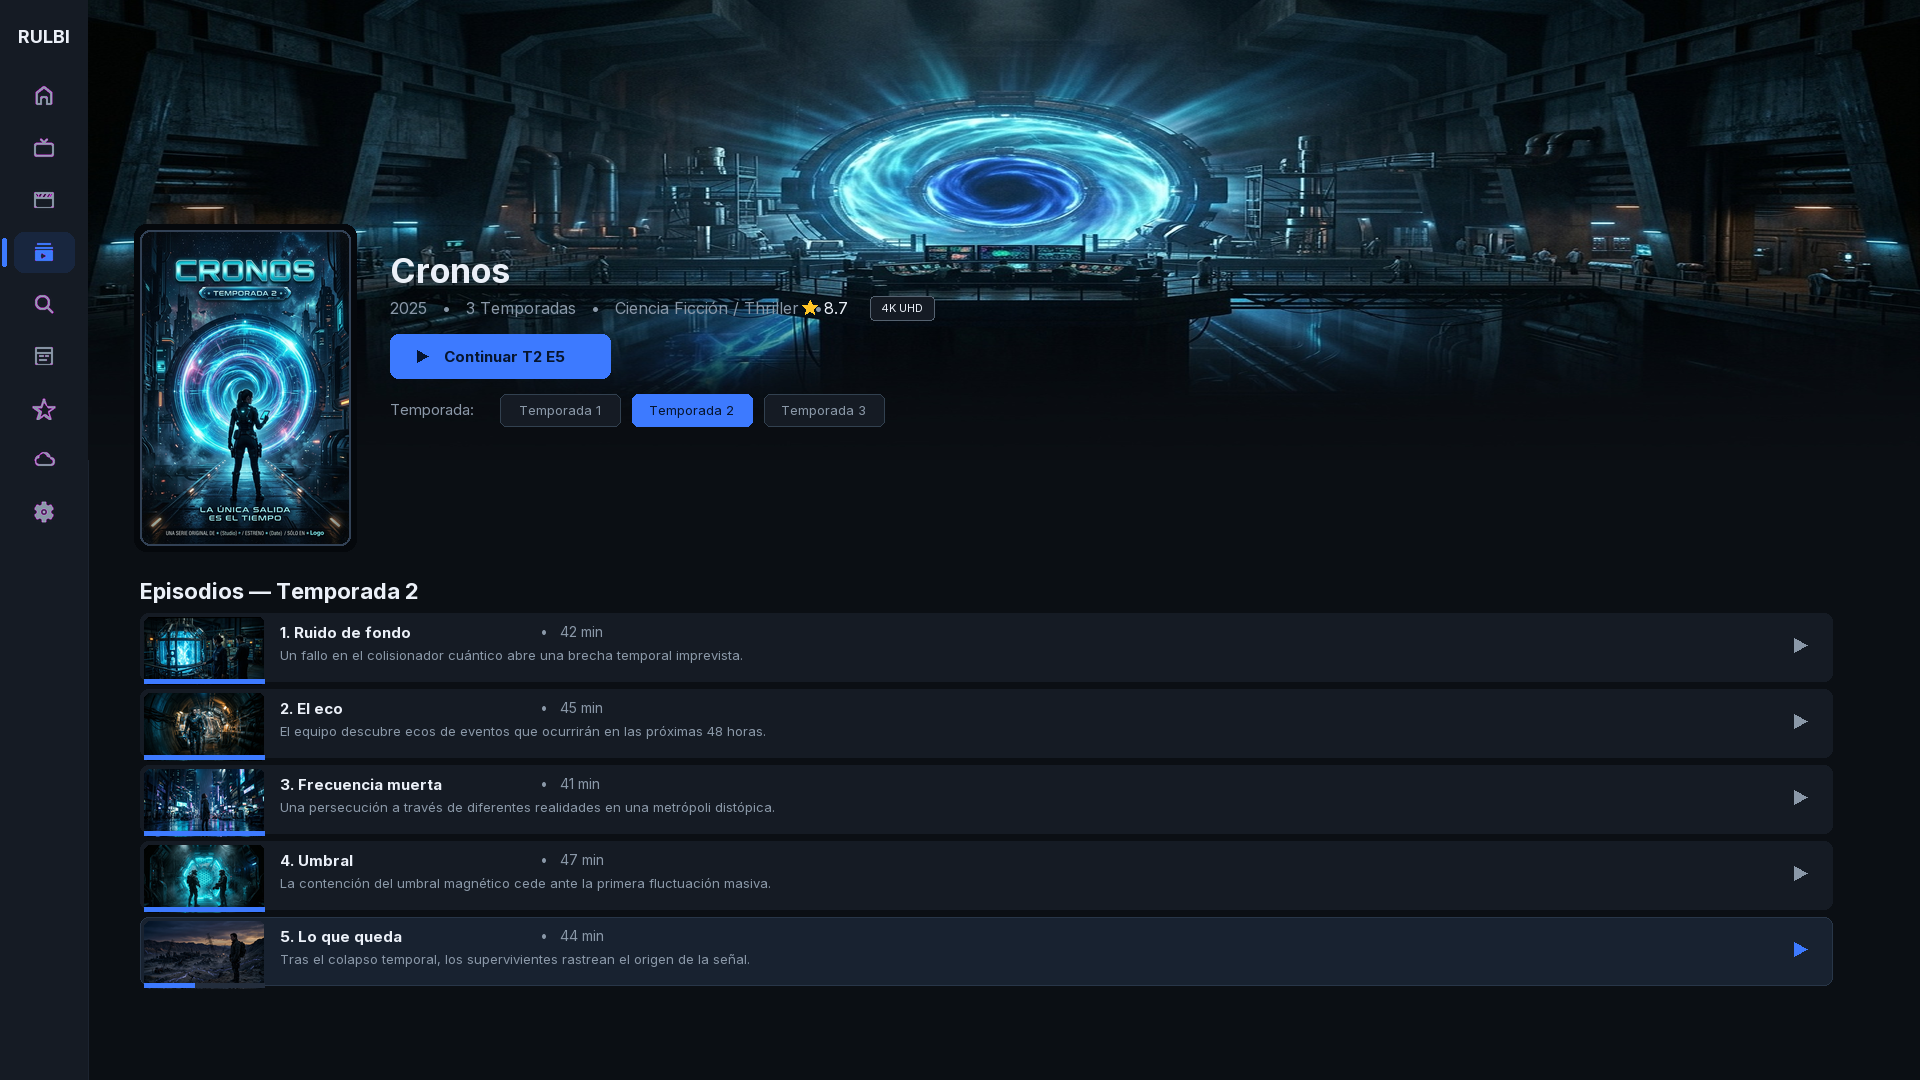
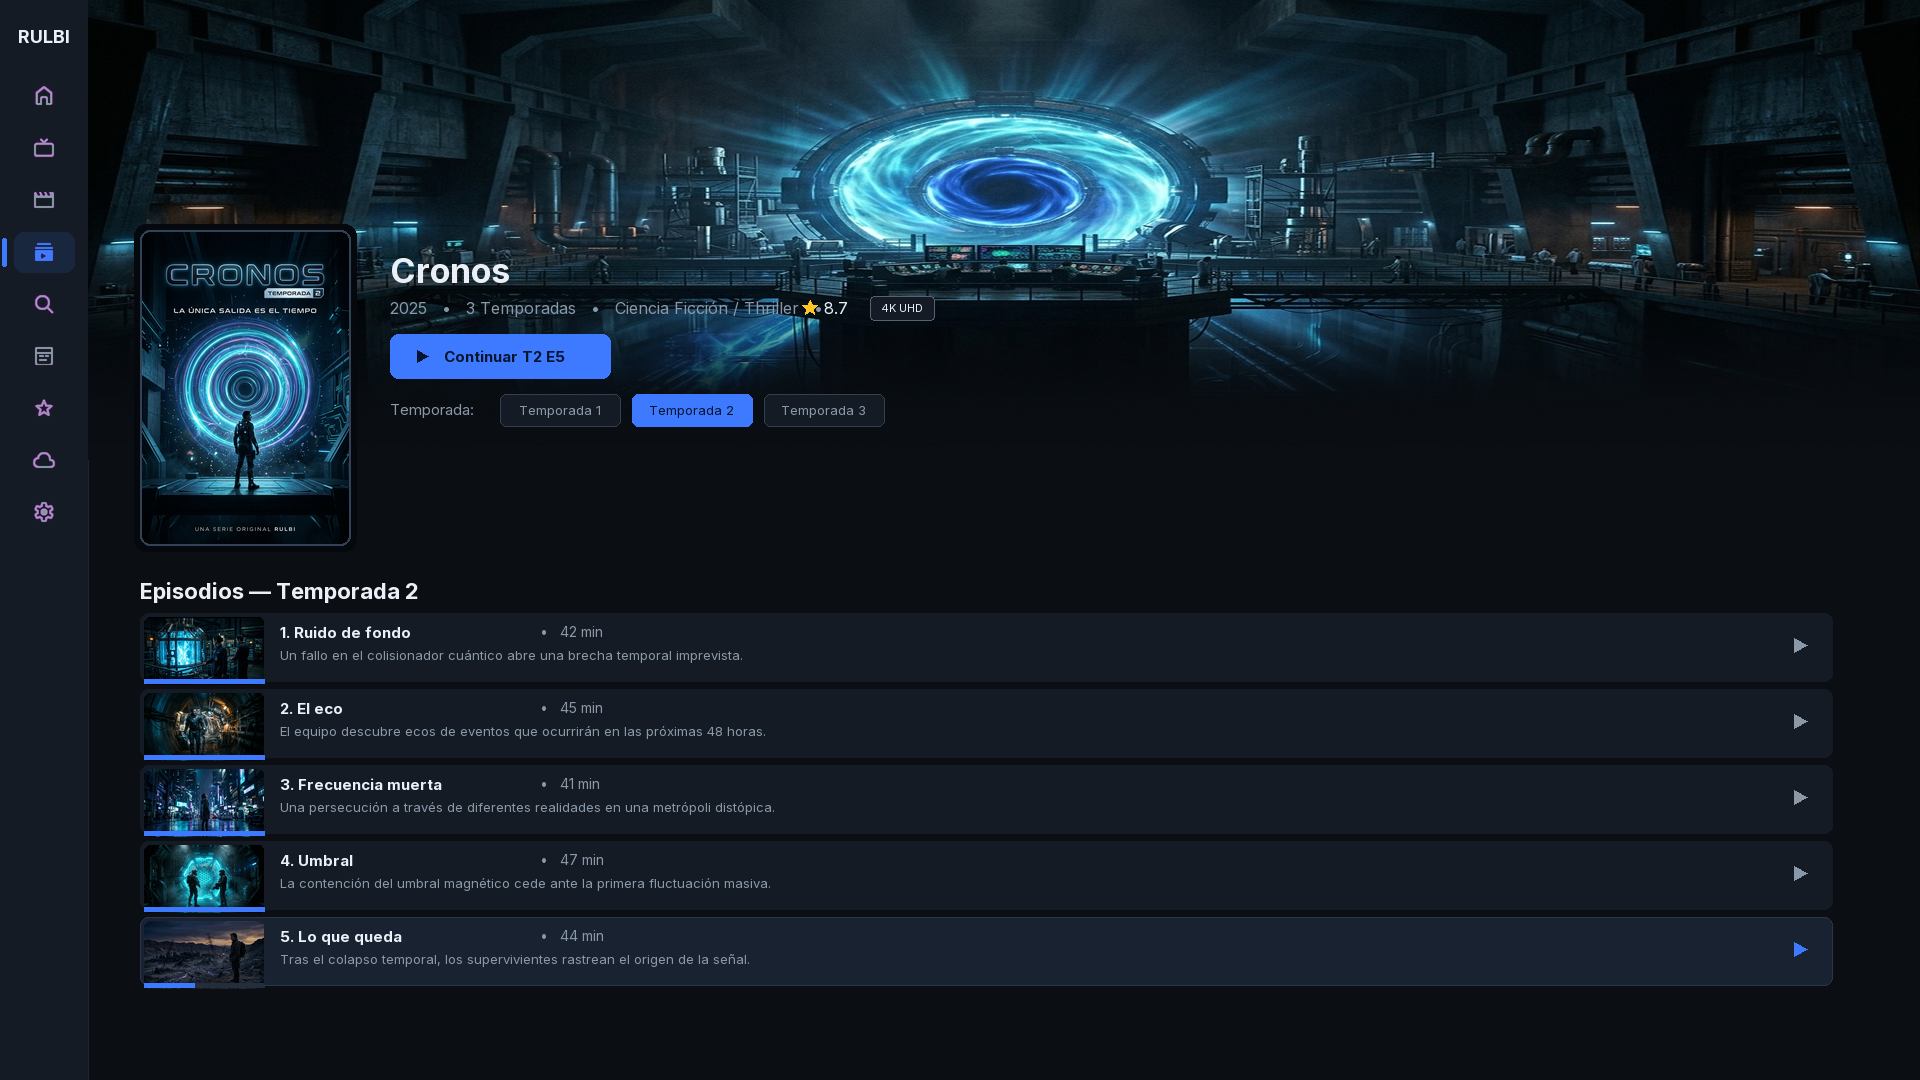
fix(design): completa el set de iconos del rail y el crédito del póster de Cronos
Comitea el trabajo de la vía 2 (encargado a Antigravity, verificado por rasterizado
calibrado en sesiones previas pero nunca comiteado) más un fix propio:

- posters/cronos_s02.jpg: créditos limpios ("UNA SERIE ORIGINAL RULBI"), sin los
  marcadores de plantilla "(Studio)/(Date)/Logo" quemados en la imagen.
- icon_movies, icon_favorites, icon_sources (+ sus activos): ahora son los glifos
  reales de Material Symbols Rounded (variantes outline/fill1), no paths dibujados
  a mano. Consistentes entre estado activo e inactivo.
- icon_settings (inactivo): mismo fix, hecho en esta sesión — el activo ya tenía
  el glifo real de Material Symbols pero el inactivo se había quedado con el
  engranaje viejo dibujado a mano, dos familias de icono distintas en el mismo
  par. Sincronizado también en tool/generate_rail_icons.py (antes solo se había
  editado el .svg de salida, no el string hardcodeado del generador — quedaba
  el riesgo de que una regeneración futura revirtiera el fix).

Los 4 mockups se regeneraron para reflejar el icono de ajustes corregido.

Changed region(s): [[0.0625, 0.2139, 0.1875, 0.5194], [0.0, 0.4583, 0.0312, 0.4889], [0.0, 0.3667, 0.0312, 0.3972]]

diff --git a/tool/generate_rail_icons.py b/tool/generate_rail_icons.py
@@ -58,11 +58,15 @@ live_tv_active = """<svg xmlns="http://www.w3.org/2000/svg" viewBox="0 0 24 24" 
 
 # 3. Movies
 movies_inactive = """<svg xmlns="http://www.w3.org/2000/svg" viewBox="0 0 24 24" width="24" height="24">
-  <path fill="#8A98A8" fill-rule="evenodd" d="M4 4a2 2 0 0 0-2 2v12a2 2 0 0 0 2 2h16a2 2 0 0 0 2-2V6a2 2 0 0 0-2-2H4zm0 2h1.38l2 3H5.62L4 6.57V6zm3.82 0h2.46l-2 3H5.82l2-3zm4.46 0h2.46l-2 3h-2.46l2-3zm4.46 0h2.46l-2 3h-2.46l2-3zm4.46 0H20v.57l-1.62 2.43h-1.76l2-3zm.8 5H4v7a1 1 0 0 0 1 1h14a1 1 0 0 0 1-1v-7z"/>
+  <g transform="translate(0, 24) scale(0.025, 0.025)">
+    <path fill="#8A98A8" d="m160-800 65 130q7 14 20 22t28 8q30 0 46-25.5t2-52.5l-41-82h80l65 130q7 14 20 22t28 8q30 0 46-25.5t2-52.5l-41-82h80l65 130q7 14 20 22t28 8q30 0 46-25.5t2-52.5l-41-82h120q33 0 56.5 23.5T880-720v480q0 33-23.5 56.5T800-160H160q-33 0-56.5-23.5T80-240v-480q0-33 23.5-56.5T160-800Zm0 240v320h640v-320H160Zm0 0v320-320Z"/>
+  </g>
 </svg>"""
 
 movies_active = """<svg xmlns="http://www.w3.org/2000/svg" viewBox="0 0 24 24" width="24" height="24">
-  <path fill="#3D7AFF" d="M4 4a2 2 0 0 0-2 2v12a2 2 0 0 0 2 2h16a2 2 0 0 0 2-2V6a2 2 0 0 0-2-2H4zm0 2h1.38l2 3H5.62L4 6.57V6zm3.82 0h2.46l-2 3H5.82l2-3zm4.46 0h2.46l-2 3h-2.46l2-3zm4.46 0h2.46l-2 3h-2.46l2-3zm4.46 0H20v.57l-1.62 2.43h-1.76l2-3zM4 11h16v7a1 1 0 0 1-1 1H5a1 1 0 0 1-1-1v-7z"/>
+  <g transform="translate(0, 24) scale(0.025, 0.025)">
+    <path fill="#3D7AFF" d="m160-800 65 130q7 14 20 22t28 8q30 0 46-25.5t2-52.5l-41-82h80l65 130q7 14 20 22t28 8q30 0 46-25.5t2-52.5l-41-82h80l65 130q7 14 20 22t28 8q30 0 46-25.5t2-52.5l-41-82h120q33 0 56.5 23.5T880-720v480q0 33-23.5 56.5T800-160H160q-33 0-56.5-23.5T80-240v-480q0-33 23.5-56.5T160-800Z"/>
+  </g>
 </svg>"""
 
 # 4. Series
@@ -99,32 +103,44 @@ guide_active = """<svg xmlns="http://www.w3.org/2000/svg" viewBox="0 0 24 24" wi
 # 7. Favorites
 # Unified filled path technique
 favorites_inactive = """<svg xmlns="http://www.w3.org/2000/svg" viewBox="0 0 24 24" width="24" height="24">
-  <path fill="#8A98A8" fill-rule="evenodd" d="M12 2.6a1 1 0 0 1 .95.68l2.25 6.94h7.3a1 1 0 0 1 .59 1.81l-5.91 4.29 2.26 6.95a1 1 0 0 1-1.54 1.12L12 20.1l-5.9 4.29a1 1 0 0 1-1.54-1.12l2.26-6.95-5.9-4.29a1 1 0 0 1 .58-1.81h7.3l2.25-6.94a1 1 0 0 1 .95-.68zm0 3.82l-1.63 5.02a1 1 0 0 1-.95.68H5.15l4.27 3.1a1 1 0 0 1 .37 1.12l-1.63 5.03 4.28-3.11a1 1 0 0 1 1.17 0l4.28 3.11-1.63-5.03a1 1 0 0 1 .37-1.12l4.27-3.1h-4.27a1 1 0 0 1-.95-.68L12 6.42z"/>
+  <g transform="translate(0, 24) scale(0.025, 0.025)">
+    <path fill="#8A98A8" d="m354-287 126-76 126 77-33-144 111-96-146-13-58-136-58 135-146 13 111 97-33 143Zm126 18L314-169q-11 7-23 6t-21-8q-9-7-14-17.5t-2-23.5l44-189-147-127q-10-9-12.5-20.5T140-571q4-11 12-18t22-9l194-17 75-178q5-12 15.5-18t21.5-6q11 0 21.5 6t15.5 18l75 178 194 17q14 2 22 9t12 18q4 11 1.5 22.5T809-528L662-401l44 189q3 13-2 23.5T690-171q-9 7-21 8t-23-6L480-269Zm0-201Z"/>
+  </g>
 </svg>"""
 
 favorites_active = """<svg xmlns="http://www.w3.org/2000/svg" viewBox="0 0 24 24" width="24" height="24">
-  <path fill="#3D7AFF" d="M12 2.6a1 1 0 0 1 .95.68l2.25 6.94h7.3a1 1 0 0 1 .59 1.81l-5.91 4.29 2.26 6.95a1 1 0 0 1-1.54 1.12L12 20.1l-5.9 4.29a1 1 0 0 1-1.54-1.12l2.26-6.95-5.9-4.29a1 1 0 0 1 .58-1.81h7.3l2.25-6.94a1 1 0 0 1 .95-.68z"/>
+  <g transform="translate(0, 24) scale(0.025, 0.025)">
+    <path fill="#3D7AFF" d="M480-269 314-169q-11 7-23 6t-21-8q-9-7-14-17.5t-2-23.5l44-189-147-127q-10-9-12.5-20.5T140-571q4-11 12-18t22-9l194-17 75-178q5-12 15.5-18t21.5-6q11 0 21.5 6t15.5 18l75 178 194 17q14 2 22 9t12 18q4 11 1.5 22.5T809-528L662-401l44 189q3 13-2 23.5T690-171q-9 7-21 8t-23-6L480-269Z"/>
+  </g>
 </svg>"""
 
 # 8. Sources
 # Bounded within x=2..22, y=3..21 with optical margins
 sources_inactive = """<svg xmlns="http://www.w3.org/2000/svg" viewBox="0 0 24 24" width="24" height="24">
-  <path fill="#8A98A8" fill-rule="evenodd" d="M18.5 9.04A6 6 0 0 0 7.35 7.1a5 5 0 0 0-4.35 5.9A5 5 0 0 0 7 18h11.5a4.5 4.5 0 0 0 0-9h-.01.01zm0 2a2.5 2.5 0 0 1 0 5H7a3 3 0 0 1-.6-5.94 1 1 0 0 0 .8-.8A4 4 0 0 1 15 8.13a1 1 0 0 0 1.15.86 2.5 2.5 0 0 1 2.35 2.05z"/>
+  <g transform="translate(0, 24) scale(0.025, 0.025)">
+    <path fill="#8A98A8" d="M260-160q-91 0-155.5-63T40-377q0-78 47-139t123-78q25-92 100-149t170-57q117 0 198.5 81.5T760-520q69 8 114.5 59.5T920-340q0 75-52.5 127.5T740-160H260Zm0-80h480q42 0 71-29t29-71q0-42-29-71t-71-29h-60v-80q0-83-58.5-141.5T480-720q-83 0-141.5 58.5T280-520h-20q-58 0-99 41t-41 99q0 58 41 99t99 41Zm220-240Z"/>
+  </g>
 </svg>"""
 
 sources_active = """<svg xmlns="http://www.w3.org/2000/svg" viewBox="0 0 24 24" width="24" height="24">
-  <path fill="#3D7AFF" d="M18.5 9.04A6 6 0 0 0 7.35 7.1a5 5 0 0 0-4.35 5.9A5 5 0 0 0 7 18h11.5a4.5 4.5 0 0 0 0-9z"/>
+  <g transform="translate(0, 24) scale(0.025, 0.025)">
+    <path fill="#3D7AFF" d="M260-160q-91 0-155.5-63T40-377q0-78 47-139t123-78q25-92 100-149t170-57q117 0 198.5 81.5T760-520q69 8 114.5 59.5T920-340q0 75-52.5 127.5T740-160H260Z"/>
+  </g>
 </svg>"""
 
 # 9. Settings
 # Inactive: weight 400
 # Active: weight 600 + bold filled cog with distinct center
 settings_inactive = """<svg xmlns="http://www.w3.org/2000/svg" viewBox="0 0 24 24" width="24" height="24">
-  <path fill="#8A98A8" fill-rule="evenodd" d="M19.14 12.94a7.6 7.6 0 0 0 0-1.88l1.88-1.46a1 1 0 0 0 .24-1.28l-1.78-3.08a1 1 0 0 0-1.22-.44l-2.22.89a7.4 7.4 0 0 0-1.63-.95l-.34-2.36A1 1 0 0 0 13.07 1.5h-2.14a1 1 0 0 0-.99.88l-.34 2.36c-.58.24-1.13.56-1.63.95l-2.22-.89a1 1 0 0 0-1.22.44L2.74 8.32a1 1 0 0 0 .24 1.28l1.88 1.46a7.6 7.6 0 0 0 0 1.88l-1.88 1.46a1 1 0 0 0-.24 1.28l1.78 3.08a1 1 0 0 0 1.22.44l2.22-.89c.5.39 1.05.71 1.63.95l.34 2.36a1 1 0 0 0 .99.88h2.14a1 1 0 0 0 .99-.88l.34-2.36c.58-.24 1.13-.56 1.63-.95l2.22.89a1 1 0 0 0 1.22-.44l1.78-3.08a1 1 0 0 0-.24-1.28l-1.88-1.46zM12 15a3 3 0 1 0 0-6 3 3 0 0 0 0 6zm0-1.5a1.5 1.5 0 1 1 0-3 1.5 1.5 0 0 1 0 3z"/>
+  <g transform="translate(0, 24) scale(0.025, 0.025)">
+    <path fill="#8A98A8" d="M433-80q-27 0-46.5-18T363-142l-9-66q-13-5-24.5-12T307-235l-62 26q-25 11-50 2t-39-32l-47-82q-14-23-8-49t27-43l53-40q-1-7-1-13.5v-27q0-6.5 1-13.5l-53-40q-21-17-27-43t8-49l47-82q14-23 39-32t50 2l62 26q11-8 23-15t24-12l9-66q4-26 23.5-44t46.5-18h94q27 0 46.5 18t23.5 44l9 66q13 5 24.5 12t22.5 15l62-26q25-11 50-2t39 32l47 82q14 23 8 49t-27 43l-53 40q1 7 1 13.5v27q0 6.5-2 13.5l53 40q21 17 27 43t-8 49l-48 82q-14 23-39 32t-50-2l-60-26q-11 8-23 15t-24 12l-9 66q-4 26-23.5 44T527-80h-94Zm7-80h79l14-106q31-8 57.5-23.5T639-327l99 41 39-68-86-65q5-14 7-29.5t2-31.5q0-16-2-31.5t-7-29.5l86-65-39-68-99 42q-22-23-48.5-38.5T533-694l-13-106h-79l-14 106q-31 8-57.5 23.5T321-633l-99-41-39 68 86 64q-5 15-7 30t-2 32q0 16 2 31t7 30l-86 65 39 68 99-42q22 23 48.5 38.5T427-266l13 106Zm42-180q58 0 99-41t41-99q0-58-41-99t-99-41q-59 0-99.5 41T342-480q0 58 40.5 99t99.5 41Zm-2-140Z"/>
+  </g>
 </svg>"""
 
 settings_active = """<svg xmlns="http://www.w3.org/2000/svg" viewBox="0 0 24 24" width="24" height="24">
-  <path fill="#3D7AFF" fill-rule="evenodd" d="M19.14 12.94a7.6 7.6 0 0 0 0-1.88l1.88-1.46a1 1 0 0 0 .24-1.28l-1.78-3.08a1 1 0 0 0-1.22-.44l-2.22.89a7.4 7.4 0 0 0-1.63-.95l-.34-2.36A1 1 0 0 0 13.07 1.5h-2.14a1 1 0 0 0-.99.88l-.34 2.36c-.58.24-1.13.56-1.63.95l-2.22-.89a1 1 0 0 0-1.22.44L2.74 8.32a1 1 0 0 0 .24 1.28l1.88 1.46a7.6 7.6 0 0 0 0 1.88l-1.88 1.46a1 1 0 0 0-.24 1.28l1.78 3.08a1 1 0 0 0 1.22.44l2.22-.89c.5.39 1.05.71 1.63.95l.34 2.36a1 1 0 0 0 .99.88h2.14a1 1 0 0 0 .99-.88l.34-2.36c.58-.24 1.13-.56 1.63-.95l2.22.89a1 1 0 0 0 1.22-.44l1.78-3.08a1 1 0 0 0-.24-1.28l-1.88-1.46zM12 15.5a3.5 3.5 0 1 0 0-7 3.5 3.5 0 0 0 0 7z"/>
+  <g transform="translate(0, 24) scale(0.025, 0.025)">
+    <path fill="#3D7AFF" d="M433-80q-27 0-46.5-18T363-142l-9-66q-13-5-24.5-12T307-235l-62 26q-25 11-50 2t-39-32l-47-82q-14-23-8-49t27-43l53-40q-1-7-1-13.5v-27q0-6.5 1-13.5l-53-40q-21-17-27-43t8-49l47-82q14-23 39-32t50 2l62 26q11-8 23-15t24-12l9-66q4-26 23.5-44t46.5-18h94q27 0 46.5 18t23.5 44l9 66q13 5 24.5 12t22.5 15l62-26q25-11 50-2t39 32l47 82q14 23 8 49t-27 43l-53 40q1 7 1 13.5v27q0 6.5-2 13.5l53 40q21 17 27 43t-8 49l-48 82q-14 23-39 32t-50-2l-60-26q-11 8-23 15t-24 12l-9 66q-4 26-23.5 44T527-80h-94Zm49-260q58 0 99-41t41-99q0-58-41-99t-99-41q-59 0-99.5 41T342-480q0 58 40.5 99t99.5 41Z"/>
+  </g>
 </svg>"""
 
 icons = {
